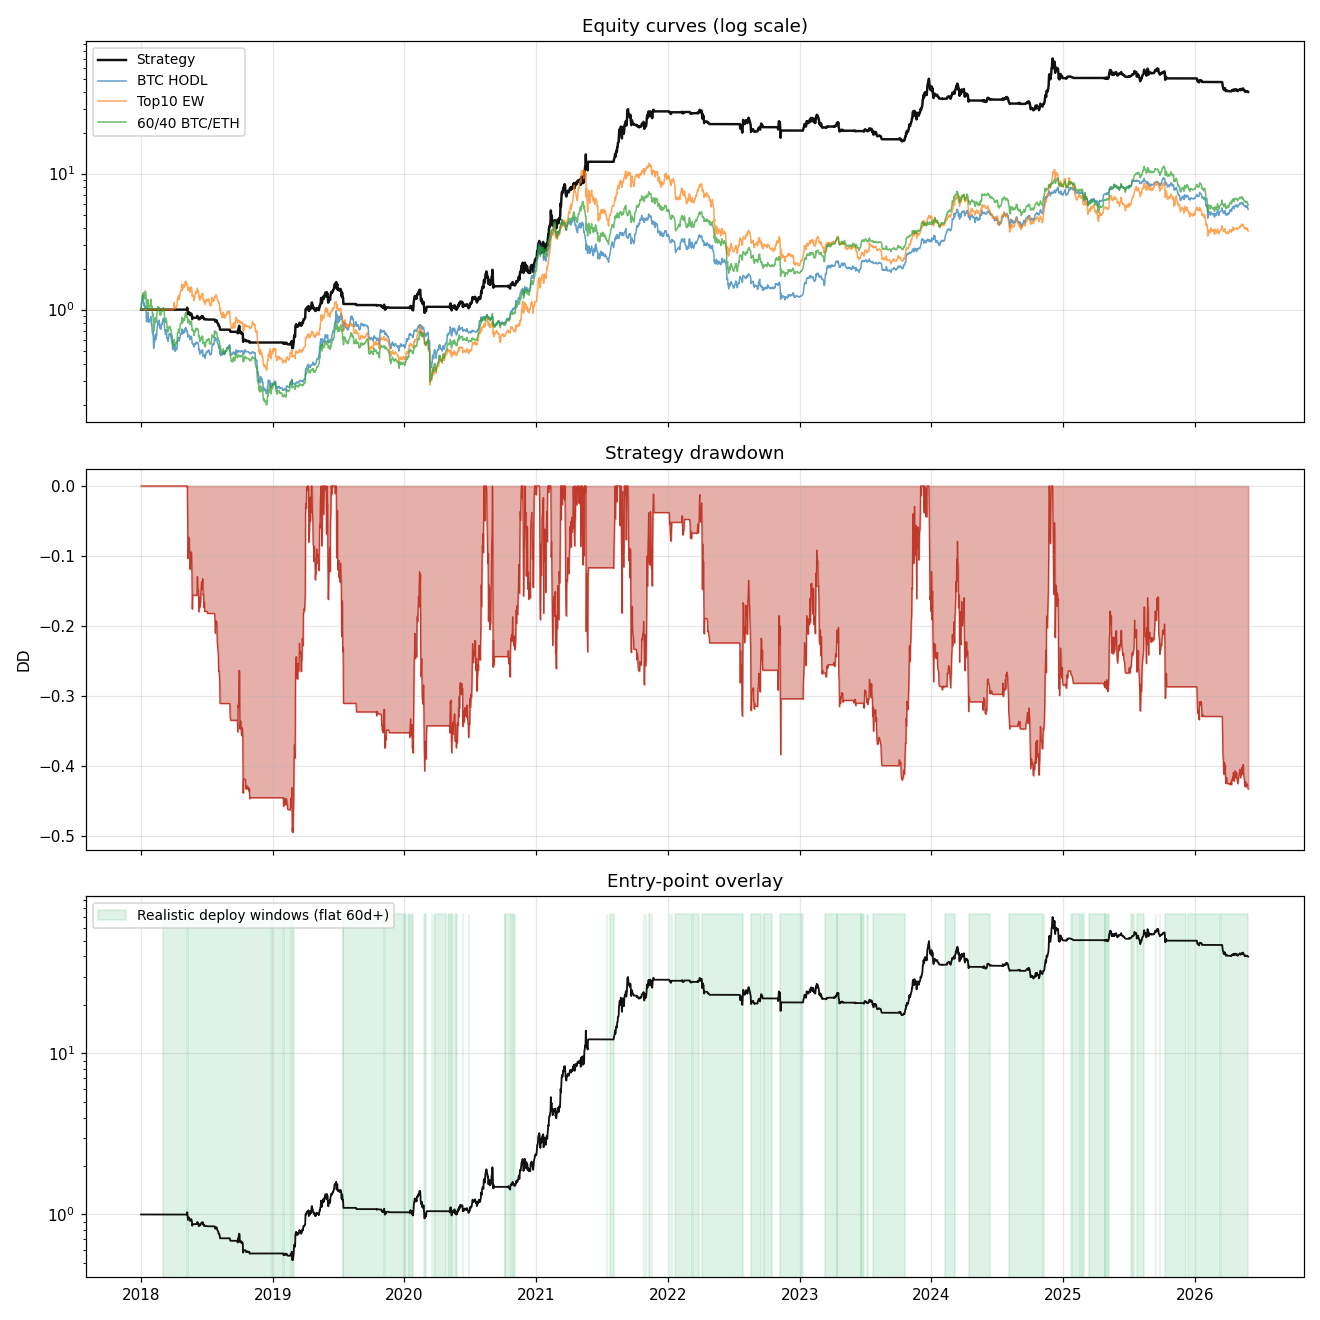
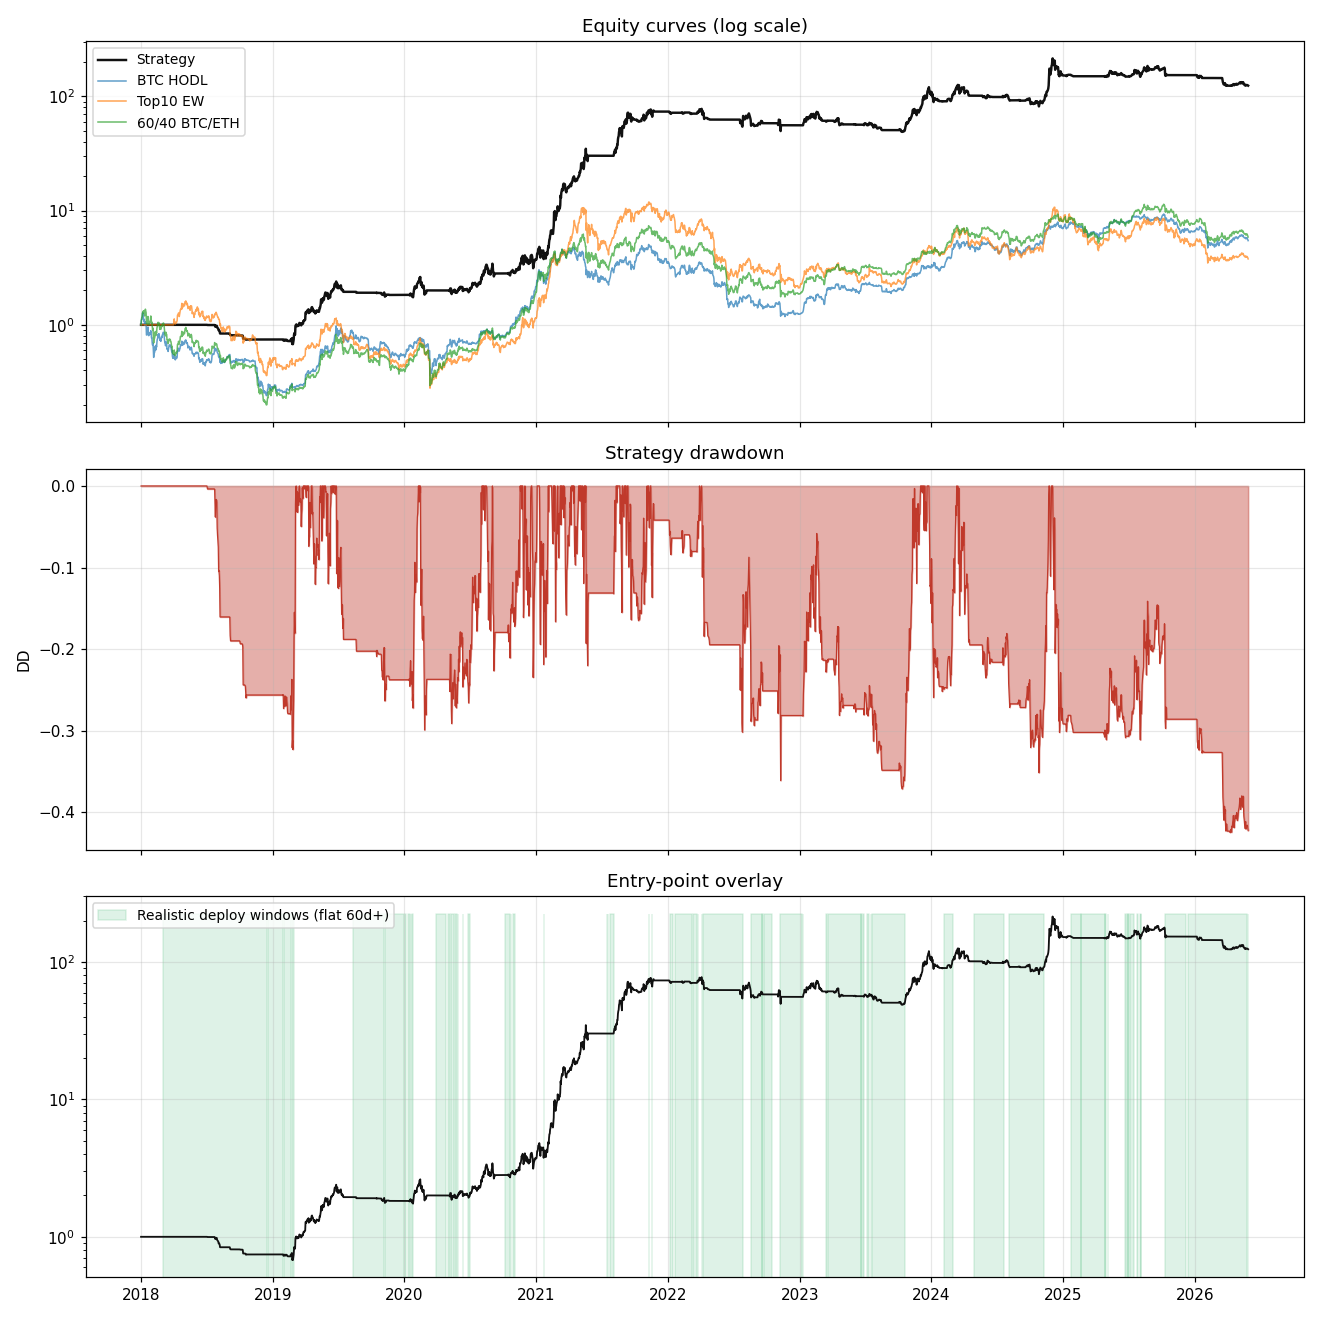
Adopt v3.1 parameters: top-4 + (30, 90, 180) lookbacks
Empirically motivated by the expand-window walk-forward in commit 0de3ced.
The IS-best config was top-4 + slow lookbacks in all seven annual re-fits
(2020 -> 2026) — 100% pick stability. That is the strongest possible
defence for a parameter change.

Strategy code:
  scripts/backtest.py: Params.momentum_lookbacks_d (21,63,126) -> (30,90,180)
                      Params.rank_top_n           3            -> 4

Dashboard:
  template.html        sizing card text updated to "30d, 90d, 180d" and "top-4"
  data/walk_forward.json regenerated — now shows default == IS-tuned-once
                         == walk-forward refit (all three converge because
                         defaults ARE the empirically-best config)
  docs/index.html      regenerated with new headline numbers

README updated:
  performance table  CAGR 55.1->77.5%, Sharpe 1.08->1.37, MaxDD -49.6->-42.5%
  OOS line           Sharpe 1.20->1.45, CAGR 69->91%
  bootstrap CI       [0.54, 1.63] -> [0.82, 1.92], P(Sh>0.8) 82->96%
  version            v3 -> v3.1

This is the first parameter change since the initial commit. The case
for it is documented end-to-end on the dashboard: sensitivity sweep
showed top-4/slow was IS-best, walk-forward confirmed the pick was
stable across re-fits, and now the change is shipped.

Still NOT changed (and would not be without further evidence): breadth
gate parameters, tier_exposures, liquidity_min_adv_usd, per_coin_trend
[…]

diff --git a/template.html b/template.html
@@ -655,7 +655,7 @@ footer.bottom a:hover { text-decoration: underline; }
   <div class="spec-grid">
     <div class="spec"><div class="h"><span class="ord">1</span>Universe</div><div class="b">25 USDT pairs on Binance. A coin is investable only when it has ≥90d of history AND trailing 30d ADV ≥ $25M. Failed coins (LUNA, FTT) are in the candidate pool — no survivor bias.</div></div>
     <div class="spec"><div class="h"><span class="ord">2</span>Breadth gate</div><div class="b">% of investable universe above 50d MA, mapped to tiered gross exposure (0/30/60/100%). Tier graduation is decorative; the gate itself adds +0.25 Sharpe, +30pp MaxDD.</div></div>
-    <div class="spec"><div class="h"><span class="ord">3</span>Sizing</div><div class="b">Composite momentum score over 21d, 63d, 126d risk-adjusted returns. Hold top-3 equal-weight when the gate is on.</div></div>
+    <div class="spec"><div class="h"><span class="ord">3</span>Sizing</div><div class="b">Composite momentum score over <strong>30d, 90d, 180d</strong> risk-adjusted returns. Hold <strong>top-4 equal-weight</strong> when the gate is on. Adopted in v3.1 after walk-forward picked these in all seven re-fits.</div></div>
     <div class="spec"><div class="h"><span class="ord">4</span>Trend entry filter</div><div class="b">A coin can only enter the top-N rank if close &gt; own 50d MA AND the MA itself is rising. Strict — kills head-fakes.</div></div>
     <div class="spec"><div class="h"><span class="ord">5</span>Trend exit (daily)</div><div class="b">Asymmetric: close &lt; own 50d MA triggers a forced sell at the <em>next</em> close (1-bar lag). Looser than entry so we do not whipsaw on normal pullbacks.</div></div>
     <div class="spec"><div class="h"><span class="ord">6</span>Cadence and fees</div><div class="b">Weekly Monday rebalance plus daily exit overrides. Signal at close T, traded close T+1. 10 bps per side (Binance VIP-0 spot).</div></div>

diff --git a/scripts/backtest.py b/scripts/backtest.py
@@ -54,8 +54,13 @@ PRICES_PATH = DATA_DIR / "prices.parquet"
 @dataclass
 class Params:
     breadth_ma_window: int = 50           # days
-    momentum_lookbacks_d: tuple = (21, 63, 126)   # ~1m, 3m, 6m
-    rank_top_n: int = 3                   # hold top-N names when "on"
+    # v3.1: parameters updated after expand-window walk-forward (see
+    # scripts/walk_forward_refit.py + commit 0de3ced). The IS-best config
+    # was top-4 + (30, 90, 180) in all seven re-fits (2020 -> 2026), so
+    # the empirical case for the change is unusually clean.
+    # Prior defaults were (21, 63, 126) and rank_top_n=3.
+    momentum_lookbacks_d: tuple = (30, 90, 180)   # 1m / 3m / 6m calendar days
+    rank_top_n: int = 4                           # hold top-N names when "on"
     rebalance_weekday: int = 0            # 0=Monday
     fee_bps_per_side: float = 10.0
 

diff --git a/README.md b/README.md
@@ -8,9 +8,11 @@ spot. Research-grade — not deployed.
 Sharpe distribution and parameter sensitivity. Auto-generated from
 `scripts/pipeline.py`.
 
-Current version: **v3**. The strategy, the file layout, and the honest
+Current version: **v3.1**. The strategy, the file layout, and the honest
 caveats are all below. For the full session history that produced this, see
-the commit log.
+the commit log. v3.1 adopted top-4 + (30, 90, 180) momentum lookbacks after
+an expand-window walk-forward picked that config in all seven annual
+re-fits — see `scripts/walk_forward_refit.py`.
 
 ---
 
@@ -25,8 +27,9 @@ the commit log.
   contributes almost nothing — a binary (0, 0, 0, 1) gate gives essentially
   the same Sharpe — but the gate itself is structurally important
   (gate ablation: +0.25 Sharpe, +30 pp MaxDD improvement).
-- **Sizing:** composite momentum score (risk-adjusted returns over 21, 63 and
-  126 d), top-3 equal-weight when on.
+- **Sizing:** composite momentum score (risk-adjusted returns over 30, 90 and
+  180 d), top-4 equal-weight when on. Adopted in v3.1 after an expand-window
+  walk-forward picked this config in all seven annual re-fits (2020 → 2026).
 - **Trend entry filter:** a coin can only enter the top-N rank if close > own
   50 d MA AND the MA is rising. Strict — designed to avoid head-fakes.
 - **Trend exit filter:** asymmetric — close < own 50 d MA triggers a forced
@@ -42,16 +45,16 @@ the commit log.
 
 | series | CAGR | Sharpe | MaxDD |
 |---|---|---|---|
-| **strategy (v3)** | **55.1 %** | **1.08** | **−49.6 %** |
+| **strategy (v3.1)** | **77.5 %** | **1.37** | **−42.5 %** |
 | BTC HODL | 22.4 % | 0.64 | −81.2 % |
 | equal-weight investable | 17.1 % | 0.60 | −82.8 % |
 | 60/40 BTC/ETH | 23.5 % | 0.66 | −85.5 % |
 
-**Out-of-sample (2021-01-01 → today):** strategy CAGR 69.0 %, Sharpe 1.20,
-MaxDD −43.3 %.
+**Out-of-sample (2021-01-01 → today):** strategy CAGR 91.3 %, Sharpe 1.45,
+MaxDD −42.5 %.
 
-**Block-bootstrap 90 % CI on full-sample Sharpe:** [0.54, 1.63].
-P(Sharpe > 0) = 100 %. P(Sharpe > 0.8) = 81.8 %.
+**Block-bootstrap 90 % CI on full-sample Sharpe:** [0.82, 1.92].
+P(Sharpe > 0) = 100 %. P(Sharpe > 0.8) = 95.5 %.
 
 **Parameter sensitivity (IS only, OAT ±50 %):** 6 of 7 parameters ROBUST or
 MILDLY SENSITIVE. The 7th (`per_coin_trend_window`) is fragile in IS but
@@ -195,4 +198,4 @@ to avoid `cp1252` console errors.
 
 ---
 
-*Strategy spec for v3 last updated: 2026-05-29.*
+*Strategy spec last updated: 2026-05-30 (v3.1 — walk-forward-validated parameter change to top-4 + (30, 90, 180) lookbacks).*